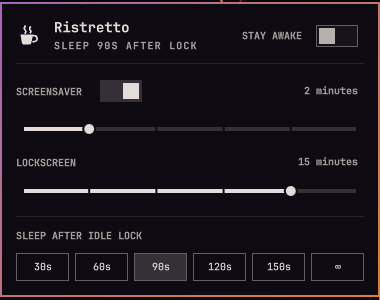
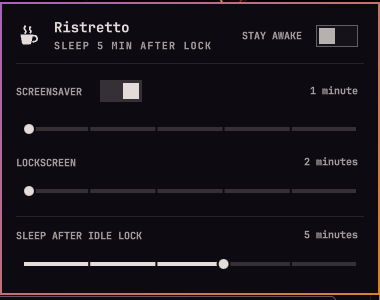
plugin: the sleep delay becomes a slider on a minutes scale
The six exclusive buttons are replaced by the same six-step notched
slider the other two delays use, with stops at 1, 2, 3, 5 and 10
minutes plus never as the last notch. The stored value stays in
seconds, so the service and existing configs are untouched; an
off-scale legacy value snaps the display to the nearest stop and
writes nothing until the slider moves. The keyboard model simplifies
with it -- all three sliders now nudge and commit on Left/Right, and
the per-button cursor index is gone.

diff --git a/Panel.qml b/Panel.qml
@@ -39,7 +39,7 @@ Panel {
   // The plugin's own settings. The delay defaults to "never", so installing
   // the plugin cannot change what the machine does until the user asks for it.
   readonly property int sleepSeconds: Number(setting("sleepAfterIdleLock", Model.SLEEP_NEVER))
-  readonly property int sleepIndex: Model.indexOfExact(Model.SLEEP_STOPS, sleepSeconds)
+  readonly property int sleepIndex: Model.sleepIndexFor(sleepSeconds)
   readonly property bool dryRun: setting("dryRun", false) === true
 
   // Stay awake is owned by omarchy.idle; bind, never cache.
@@ -61,7 +61,8 @@ Panel {
   // stay-awake control, about two dozen caption characters before it elides.
   readonly property string heroStatus: {
     if (stayAwake) return "staying awake"
-    return sleepSeconds > 0 ? "sleep " + sleepSeconds + "s after lock" : "sleep never"
+    return sleepSeconds > 0 ? "sleep " + Model.sleepStatusShort(sleepSeconds) + " after lock"
+                            : "sleep never"
   }
 
   // ------------------------------------------------------ keyboard cursor
@@ -73,16 +74,12 @@ Panel {
 
   property bool cursorActive: false
   property string focusSection: "stayawake"
-  property int selectedIndex: -1
   readonly property var sections: ["stayawake", "screensaver", "ssdelay", "lockdelay", "sleep"]
 
   function moveCursor(dy) {
     var i = sections.indexOf(focusSection)
-    if (i < 0) { focusSection = sections[0]; selectedIndex = -1; return }
-    var next = Math.max(0, Math.min(sections.length - 1, i + dy))
-    if (next === i) return
-    focusSection = sections[next]
-    selectedIndex = focusSection === "sleep" ? Math.max(0, root.sleepIndex) : -1
+    if (i < 0) { focusSection = sections[0]; return }
+    focusSection = sections[Math.max(0, Math.min(sections.length - 1, i + dy))]
   }
 
   function moveCursorH(dx) {
@@ -93,21 +90,19 @@ Panel {
       var l = Math.max(0, Math.min(Model.LOCK_STOPS.length - 1, root.lockIndex + dx))
       if (l !== root.lockIndex) root.commitLock(l)
     } else if (focusSection === "sleep") {
-      selectedIndex = Math.max(0, Math.min(Model.SLEEP_STOPS.length - 1, selectedIndex + dx))
+      var p = Math.max(0, Math.min(Model.SLEEP_STOPS.length - 1, root.sleepIndex + dx))
+      if (p !== root.sleepIndex) root.commitSleep(Model.SLEEP_STOPS[p])
     }
   }
 
   function activateCursor() {
     if (focusSection === "stayawake") root.toggleStayAwake()
     else if (focusSection === "screensaver") root.setScreensaverEnabled(!root.screensaverEnabled)
-    else if (focusSection === "sleep" && selectedIndex >= 0 && selectedIndex < Model.SLEEP_STOPS.length)
-      root.commitSleep(Model.SLEEP_STOPS[selectedIndex])
   }
 
-  function pointCursor(section, index) {
+  function pointCursor(section) {
     root.cursorActive = true
     root.focusSection = section
-    root.selectedIndex = index === undefined ? -1 : index
   }
 
   // -------------------------------------------------------------- writes
@@ -197,7 +192,6 @@ Panel {
     refreshScreensaverFlag()
     cursorActive = false
     focusSection = "stayawake"
-    selectedIndex = -1
   }
 
   // ------------------------------------------------------------------ UI
@@ -422,42 +416,60 @@ Panel {
       // ---------- Sleep after idle lock ----------
       Column {
         width: parent.width
-        spacing: Style.space(10)
+        spacing: Style.space(6)
         opacity: root.stayAwake ? 0.4 : 1.0
 
-        PanelSectionHeader {
-          text: "SLEEP AFTER IDLE LOCK"
-          foreground: root.foreground
-          fontFamily: root.fontFamily
+        Item {
+          width: parent.width
+          implicitHeight: Math.max(sleepHeader.implicitHeight, sleepValue.implicitHeight)
+
+          PanelSectionHeader {
+            id: sleepHeader
+            text: "SLEEP AFTER IDLE LOCK"
+            foreground: root.foreground
+            fontFamily: root.fontFamily
+            anchors.left: parent.left
+            anchors.verticalCenter: parent.verticalCenter
+          }
+
+          Text {
+            id: sleepValue
+            text: Model.sleepLabel(Model.SLEEP_STOPS[
+              sleepSlider.dragging ? Math.round(sleepSlider.liveValue) : root.sleepIndex])
+            color: root.dim
+            font.family: root.fontFamily
+            font.pixelSize: Style.font.caption
+            font.bold: true
+            anchors.right: parent.right
+            anchors.rightMargin: Style.space(6)
+            anchors.verticalCenter: parent.verticalCenter
+          }
         }
 
-        Row {
-          id: sleepRow
+        CursorSurface {
           width: parent.width
-          spacing: Style.space(6)
+          height: sleepSlider.implicitHeight + Style.spacing.controlGap
+          hasCursor: root.cursorActive && root.focusSection === "sleep"
+          foreground: root.foreground
+          outline: true
 
-          readonly property real cellWidth:
-            Math.floor((width - spacing * (Model.SLEEP_STOPS.length - 1)) / Model.SLEEP_STOPS.length)
+          PanelSlider {
+            id: sleepSlider
+            bar: root.bar
+            anchors.fill: parent
+            anchors.leftMargin: Style.space(6)
+            anchors.rightMargin: Style.space(6)
+            minimum: 0
+            maximum: Model.SLEEP_STOPS.length - 1
+            step: 1
+            integer: true
+            tickCount: Model.SLEEP_STOPS.length
+            value: root.sleepIndex
+            onReleased: function(v) { root.commitSleep(Model.SLEEP_STOPS[Math.round(v)]) }
+          }
 
-          Repeater {
-            model: Model.SLEEP_STOPS
-
-            Button {
-              required property var modelData
-              required property int index
-
-              width: sleepRow.cellWidth
-              text: Model.sleepLabel(modelData)
-              fontSize: Style.font.caption
-              foreground: root.foreground
-              fontFamily: root.fontFamily
-              verticalPadding: Style.spacing.controlPaddingY
-              bordered: true
-              active: root.sleepIndex === index
-              hasCursor: root.cursorActive && root.focusSection === "sleep" && root.selectedIndex === index
-              onClicked: root.commitSleep(modelData)
-              onHovered: function(isHovered) { if (isHovered) root.pointCursor("sleep", index) }
-            }
+          HoverHandler {
+            onHoveredChanged: if (hovered) root.pointCursor("sleep")
           }
         }
       }

diff --git a/Model.js b/Model.js
@@ -7,9 +7,10 @@
 var SCREENSAVER_STOPS = [1, 2, 3, 5, 10, 15]
 var LOCK_STOPS = [2, 3, 5, 10, 15, 30]
 
-// Seconds. -1 is the "never" option rendered as the infinity glyph: the
+// Stored in seconds (the unit the service arms with), but the scale is
+// minutes: 1, 2, 3, 5, 10, and "never" as the last stop. -1 means the
 // suspend timer is simply not armed.
-var SLEEP_STOPS = [30, 60, 90, 120, 150, -1]
+var SLEEP_STOPS = [60, 120, 180, 300, 600, -1]
 var SLEEP_NEVER = -1
 
 // Nearest stop to an arbitrary value. Omarchy's defaults (screensaver 150s =
@@ -28,17 +29,38 @@ function nearestIndex(stops, value) {
   return best
 }
 
-function indexOfExact(stops, value) {
-  for (var i = 0; i < stops.length; i++) if (stops[i] === value) return i
-  return -1
-}
-
 function minutesLabel(minutes) {
   return minutes + (minutes === 1 ? " minute" : " minutes")
 }
 
+// Label for a value drawn from SLEEP_STOPS (always on-scale).
 function sleepLabel(seconds) {
-  return seconds === SLEEP_NEVER ? "∞" : seconds + "s"
+  return seconds > 0 ? minutesLabel(seconds / 60) : "never"
+}
+
+// Compact form for the hero status line, which also has to render legacy
+// off-scale values (a config written before the scale changed) faithfully.
+function sleepStatusShort(seconds) {
+  if (!(seconds > 0)) return "never"
+  return seconds % 60 === 0 ? (seconds / 60) + " min" : seconds + "s"
+}
+
+// Which stop the slider should sit on for an arbitrary stored value: the
+// nearest positive stop, or the "never" stop for -1. Off-scale values snap
+// the display only -- nothing is written until the user moves the slider.
+function sleepIndexFor(seconds) {
+  if (!(seconds > 0)) return SLEEP_STOPS.length - 1
+  var best = 0
+  var bestDelta = Infinity
+  for (var i = 0; i < SLEEP_STOPS.length; i++) {
+    if (SLEEP_STOPS[i] <= 0) continue
+    var delta = Math.abs(SLEEP_STOPS[i] - seconds)
+    if (delta < bestDelta) {
+      bestDelta = delta
+      best = i
+    }
+  }
+  return best
 }
 
 // --------------------------------------------------------------- the clamp

diff --git a/README.md b/README.md
@@ -21,8 +21,8 @@ never leads to suspend.
   2, 3, 5, 10, 15 or 30 minutes. Always strictly above the screensaver delay;
   moving either slider nudges the other when they would collide.
 - **Sleep after idle lock** — how long after an idle-driven lock the machine
-  suspends: 30, 60, 90, 120 or 150 seconds, or ∞ for never. Unlocking during
-  the countdown cancels it.
+  suspends: 1, 2, 3, 5 or 10 minutes, or never. Unlocking during the
+  countdown cancels it.
 - **Screensaver switch** — Omarchy's native `screensaver-off` flag, which has
   a CLI (`omarchy toggle screensaver`) but no other UI.
 - **Stay awake switch** — the native `omarchy.idle` stay-awake state as a
@@ -47,10 +47,10 @@ a value.
 
 Click the cup (or run `omarchy-shell halmylyseas.ristretto open`) to open the
 panel. Everything is also reachable from the keyboard: arrows or `hjkl` move
-a cursor between controls, `Left`/`Right` nudge a slider or walk the sleep
-row, `Space` or `Enter` flip a switch or pick a sleep delay, `Esc` closes.
+a cursor between controls, `Left`/`Right` nudge the focused slider, `Space`
+or `Enter` flip a switch, `Esc` closes.
 
-The hero subtitle states what the machine will actually do — `SLEEP 90S
+The hero subtitle states what the machine will actually do — `SLEEP 5 MIN
 AFTER LOCK`, `SLEEP NEVER`, or `STAYING AWAKE` — so the armed behaviour is
 readable at a glance.
 
@@ -76,7 +76,7 @@ Ristretto's own settings live in its bar-layout entry in the same file:
 
 ```bash
 # set a value from the CLI
-omarchy-shell shell setBarWidget halmylyseas.ristretto sleepAfterIdleLock 90 '{}'
+omarchy-shell shell setBarWidget halmylyseas.ristretto sleepAfterIdleLock 300 '{}'
 ```
 
 The service logs every decision to the journal, prefixed `ristretto`:
